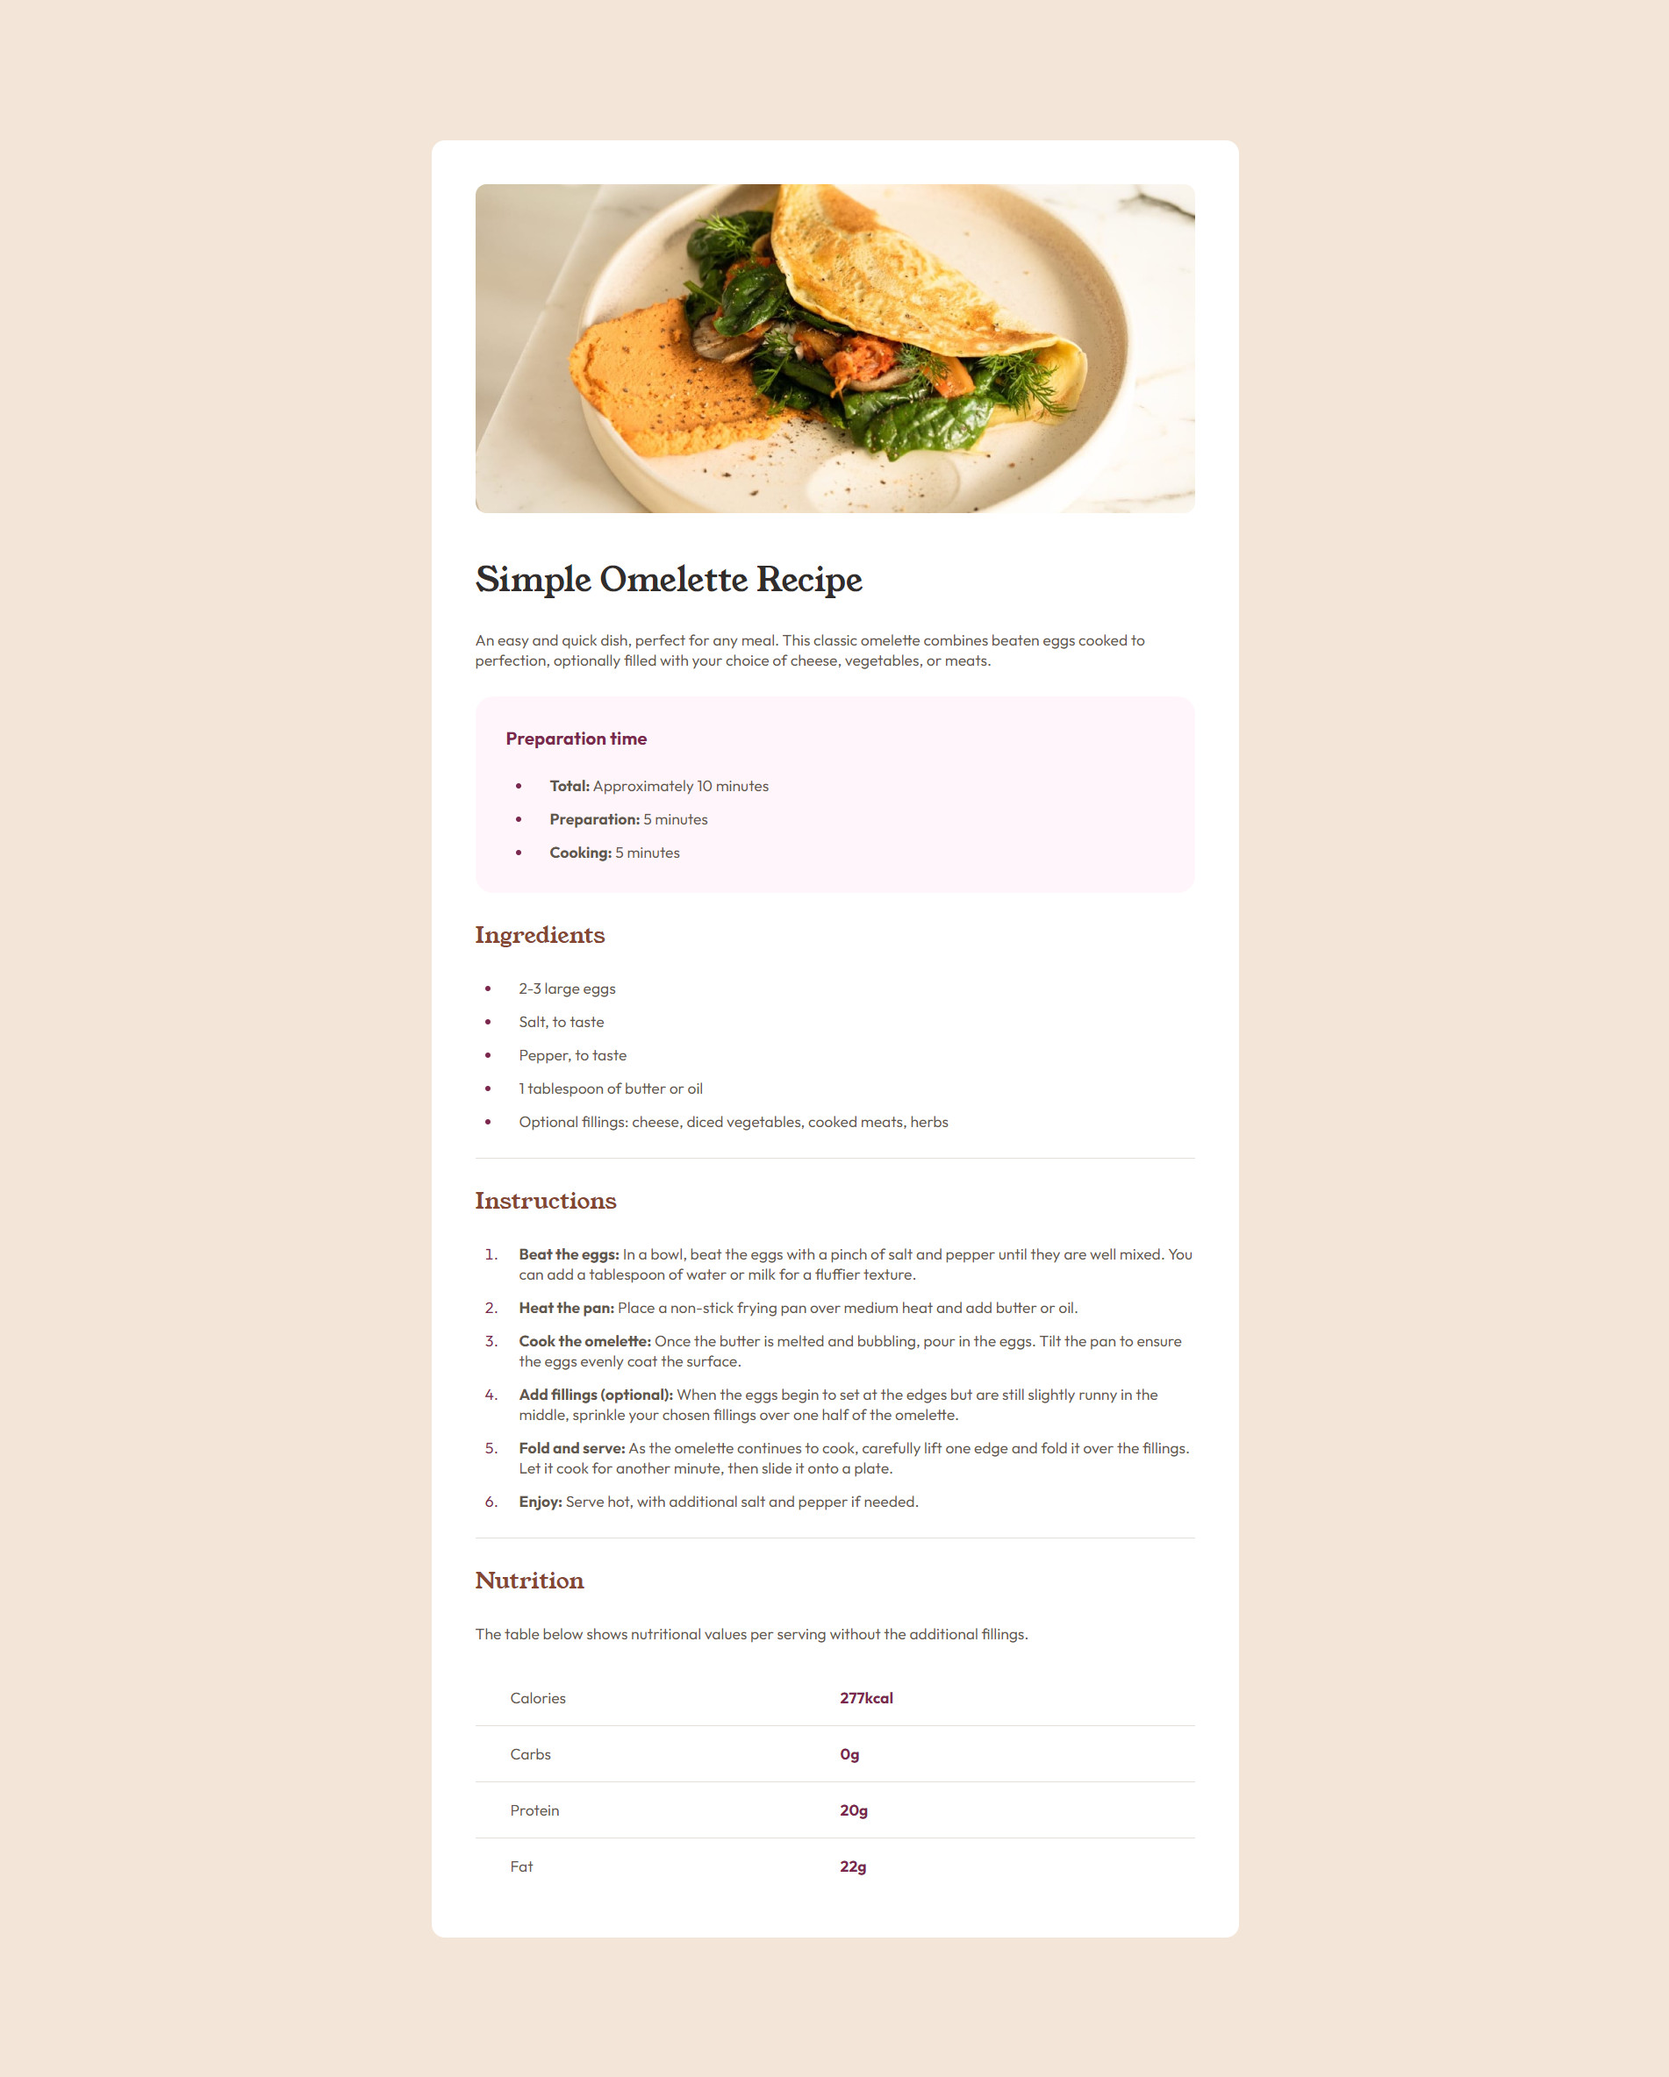
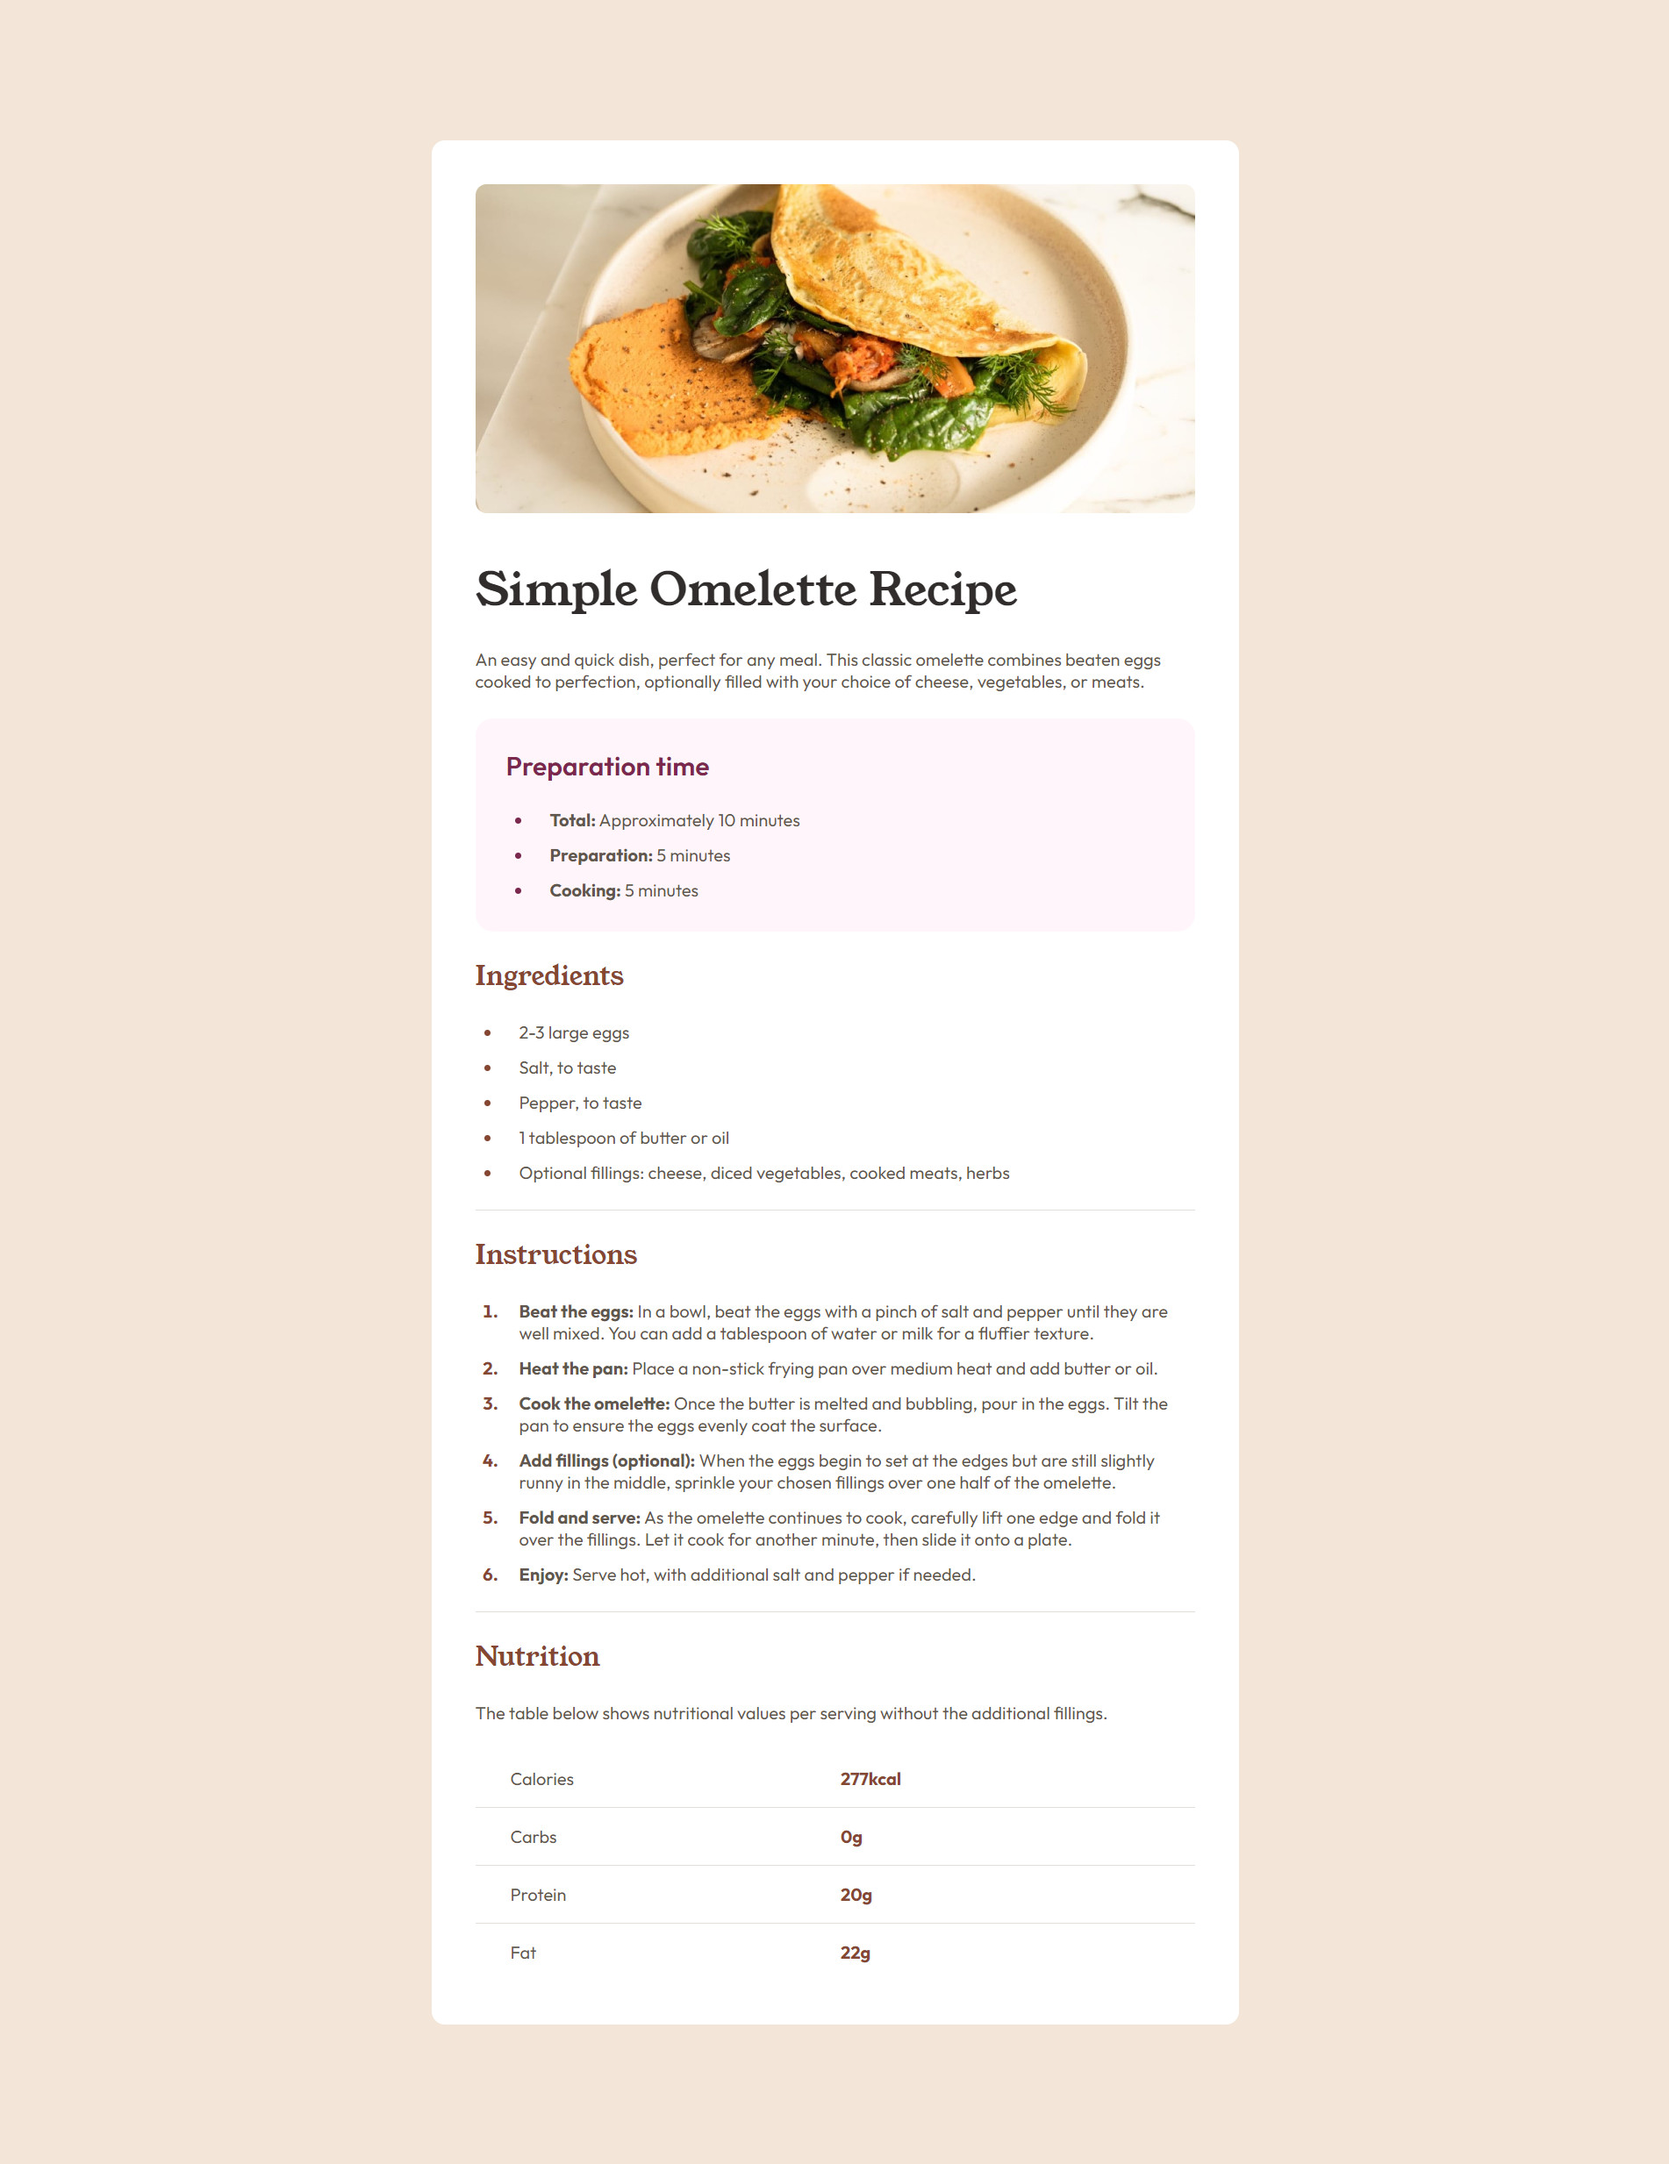
fix: update some styles and screenshot image for recipe page

Changed region(s): [[0.2792, 0.0625, 0.7135, 0.9062]]

diff --git a/01_get-started/fm-recipe-page/style.css b/01_get-started/fm-recipe-page/style.css
@@ -52,10 +52,6 @@ h2 {
   color: var(--brown-800);
 }
 
-h3 {
-  color: var(--rose-800);
-}
-
 hr {
   border: none;
   border-top: 1px solid var(--stone-150);
@@ -71,7 +67,7 @@ ul > li {
 }
 
 li::marker {
-  color: var(--rose-800);
+  color: var(--brown-800);
 }
 
 li + * {
@@ -116,6 +112,20 @@ li {
   border-radius: 16px;
 }
 
+.recipe__preparation-time h2 {
+  color: var(--rose-800);
+  font-family: 'Outfit', sans-serif;
+  font-weight: 600;
+}
+
+.recipe__preparation-time li::marker {
+  color: var(--rose-800);
+}
+
+.recipe__instructions li::marker {
+  font-weight: 700;
+}
+
 table {
   border-collapse: collapse;
 }
@@ -140,10 +150,18 @@ table tr:last-child td {
 }
 
 table td strong {
-  color: var(--rose-800);
+  color: var(--brown-800);
 }
 
 @media screen and (min-width: 768px) {
+  body {
+    font-size: 16px;
+  }
+
+  h1 {
+    font-size: 42px;
+  }
+
   .recipe {
     border-radius: 12px;
     padding: 40px;

diff --git a/01_get-started/fm-recipe-page/index.html b/01_get-started/fm-recipe-page/index.html
@@ -33,7 +33,7 @@
         </section>
 
         <section class="recipe__preparation-time">
-          <h3>Preparation time</h3>
+          <h2>Preparation time</h2>
           <ul>
             <li><strong>Total:</strong> Approximately 10 minutes</li>
             <li><strong>Preparation:</strong> 5 minutes</li>
